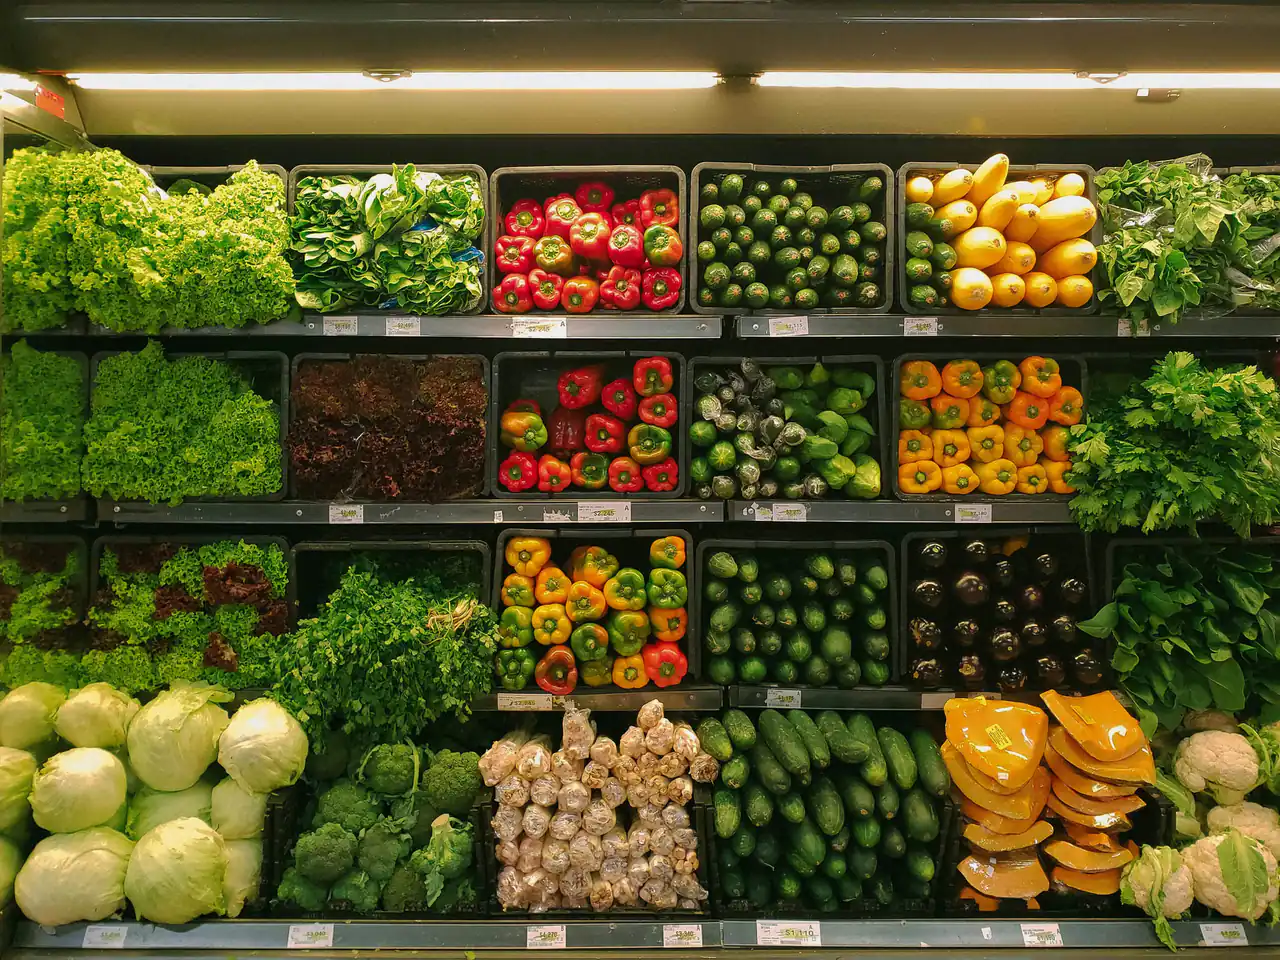
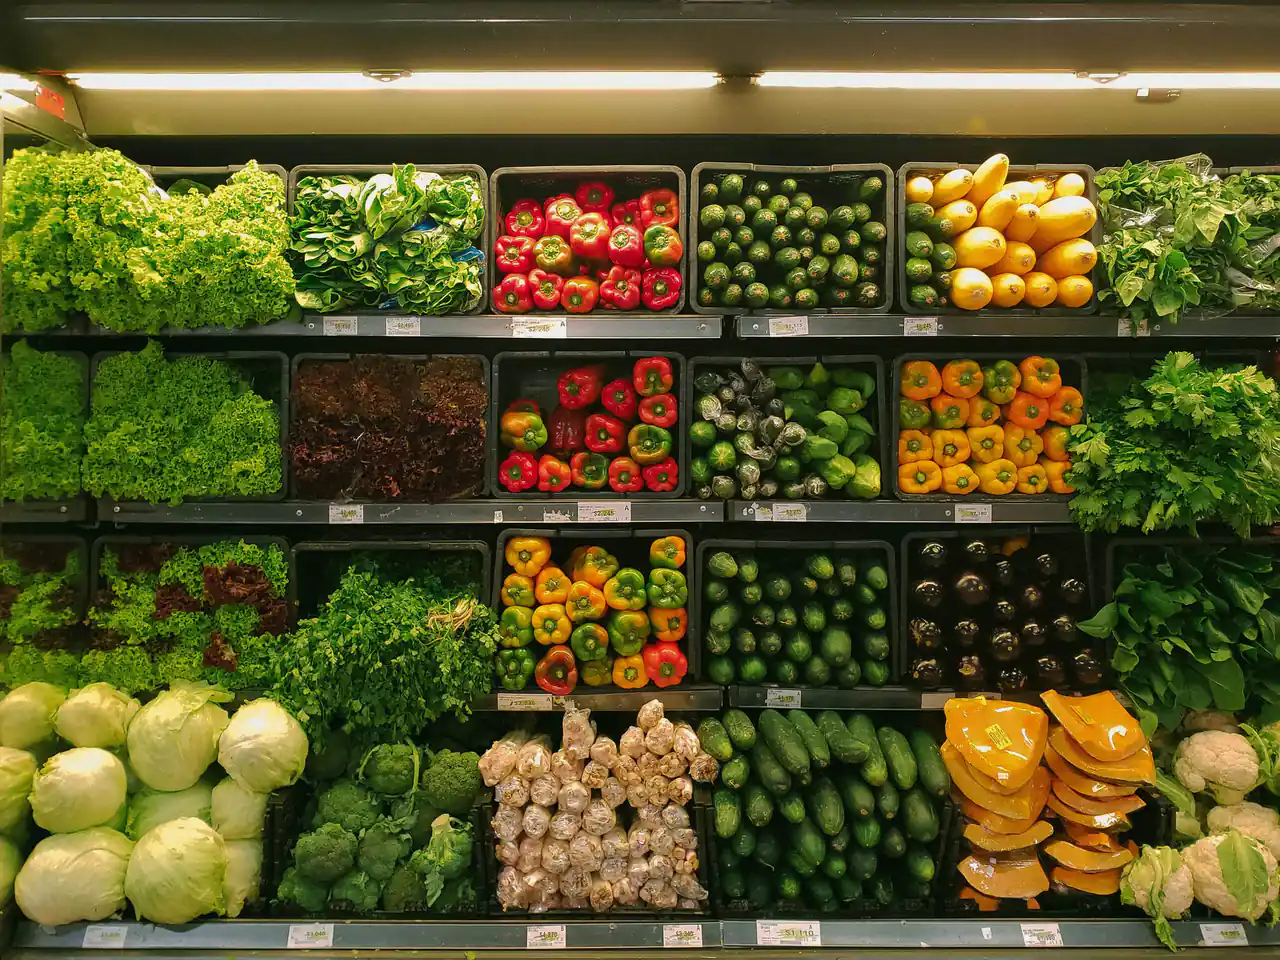
feat: add Hero Astro component with background image, title, description, and call-to-action buttons.

diff --git a/scripts/optimize-images.js b/scripts/optimize-images.js
@@ -18,7 +18,7 @@ const CONFIG = {
     smartSubsample: true
   },
   overrides: {
-    'hero-bg': { jpegQuality: 50, maxWidth: 1280 }
+    'hero-bg': { jpegQuality: 40, maxWidth: 1280 }
   }
 };
 
